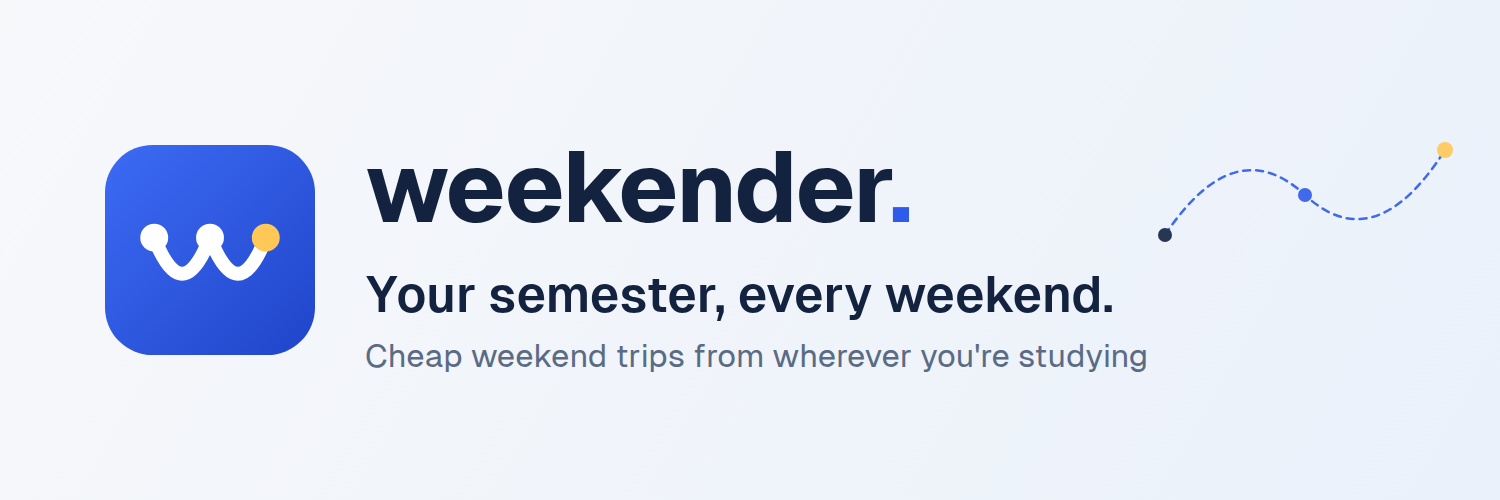
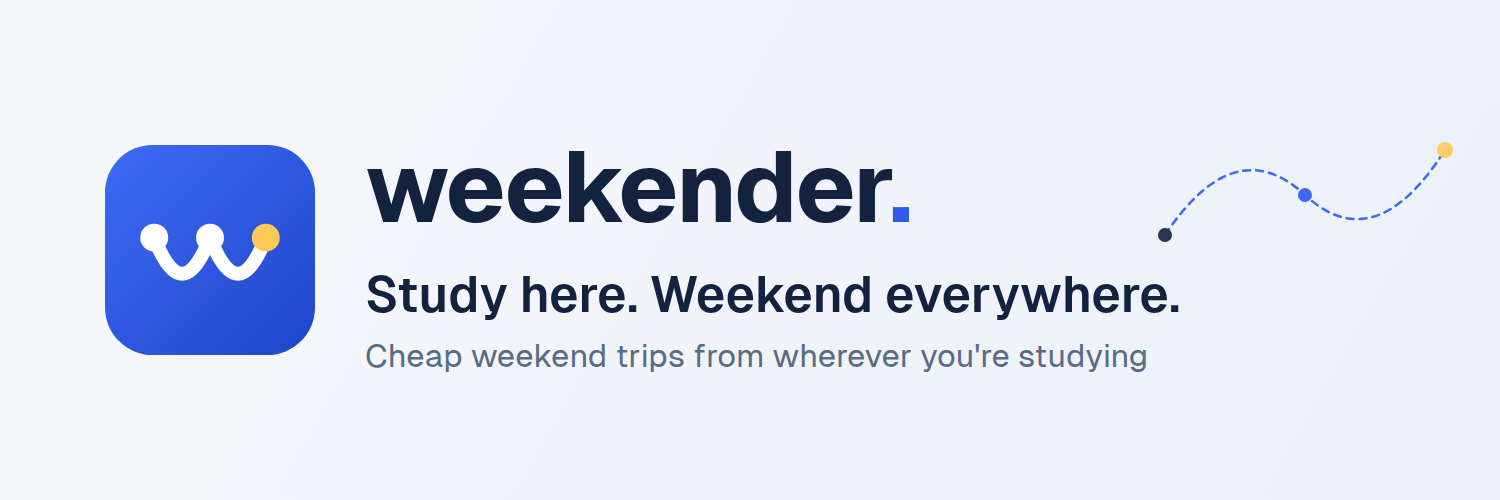
New slogan: Study here. Weekend everywhere.
Claude-Session: https://claude.ai/code/session_0164uEp8LP9VPgtd5sDXHKnF

Changed region(s): [[0.2453, 0.54, 0.7973, 0.63]]

diff --git a/index.html b/index.html
@@ -536,6 +536,7 @@ body.travel-mode .panel, body.travel-mode #spot, body.travel-mode .legend, body.
   .acct-tabs button { white-space: nowrap; font-size: 13px; padding: 8px 8px; }
   .modal-card { padding: 24px 18px 18px; }
 }
+.lp-slogan { margin: 10px 0 0; font-weight: 600; color: var(--accent); letter-spacing: 0.01em; }
 </style>
 </head>
 <body>
@@ -647,6 +648,7 @@ body.travel-mode .panel, body.travel-mode #spot, body.travel-mode .legend, body.
   <div class="landing-inner">
     <div class="landing-copy">
       <div class="brand big"><svg class="mark" viewBox="0 0 512 512" aria-hidden="true"><rect width="512" height="512" rx="116" fill="#2F5BEA"/><g transform="translate(0 30)"><path d="M120 196 Q 188 372 256 196 Q 324 372 392 196" fill="none" stroke="#fff" stroke-width="40" stroke-linecap="round"/><circle cx="120" cy="196" r="38" fill="#fff"/><circle cx="256" cy="196" r="38" fill="#fff"/><circle cx="392" cy="196" r="38" fill="#FFC857"/></g></svg>weekender<span>.</span></div>
+      <p class="lp-slogan">Study here. Weekend everywhere.</p>
       <h1 id="lp-title">Cheap trips from wherever you're studying.</h1>
       <p>Tell us where you're based, your budget and what you're into. Weekender scores 120 cities and 640+ day trips and weekend escapes from 1 to 10 for you, then shows them on a globe.</p>
       <ul class="lp-points">

diff --git a/brand/README.md b/brand/README.md
@@ -1,13 +1,13 @@
 # Weekender brand kit
 
 ## Slogan
-**Your semester, every weekend.**
+**Study here. Weekend everywhere.**
 
 Supporting line (for bios and ads): *Cheap weekend trips from wherever you're studying.*
 
 Alternatives if you want a different tone:
-- *Study abroad. See everything.* (aspirational)
-- *More weekends. Less spending.* (budget-first)
+- *Weekends, sorted.* (short, confident)
+- *See more. Spend less.* (budget-first)
 - *Where to this weekend?* (casual, good for TikTok captions)
 
 ## Logo
@@ -40,7 +40,7 @@ Use the same handle everywhere. Try in this order and take the first one free on
 `@weekender.trips` · `@weekendertrips` · `@getweekender` · `@weekender.eu`
 
 **Instagram bio (150 characters max)**
-> Your semester, every weekend ✈
+> Study here. Weekend everywhere ✈
 > Cheap weekend trips from wherever you're studying abroad 🌍
 > Free trip planner ↓
 
@@ -48,7 +48,7 @@ Use the same handle everywhere. Try in this order and take the first one free on
 > Cheap weekend trips for students abroad ✈ Free planner ↓
 
 **X / Threads**
-> Your semester, every weekend. Free planner that finds cheap weekend trips from wherever you're studying abroad, with real fares and day-by-day plans.
+> Study here. Weekend everywhere. Free planner that finds cheap weekend trips from wherever you're studying abroad, with real fares and day-by-day plans.
 
 Put the site link in every bio (use the domain once you have it).
 
